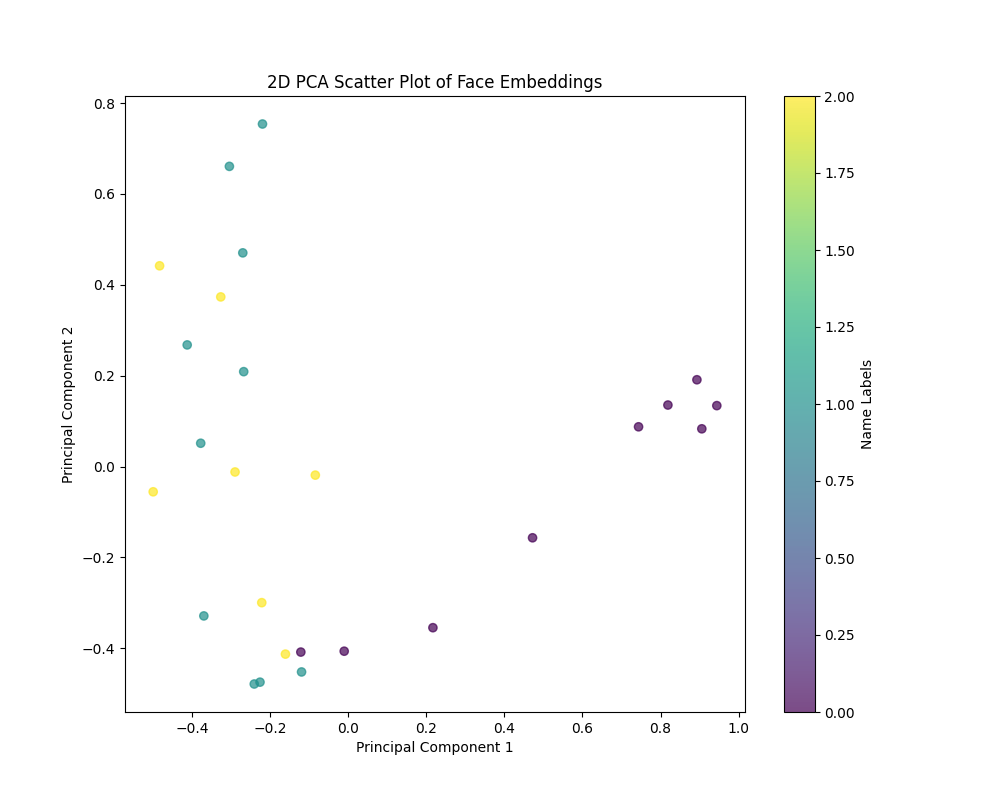
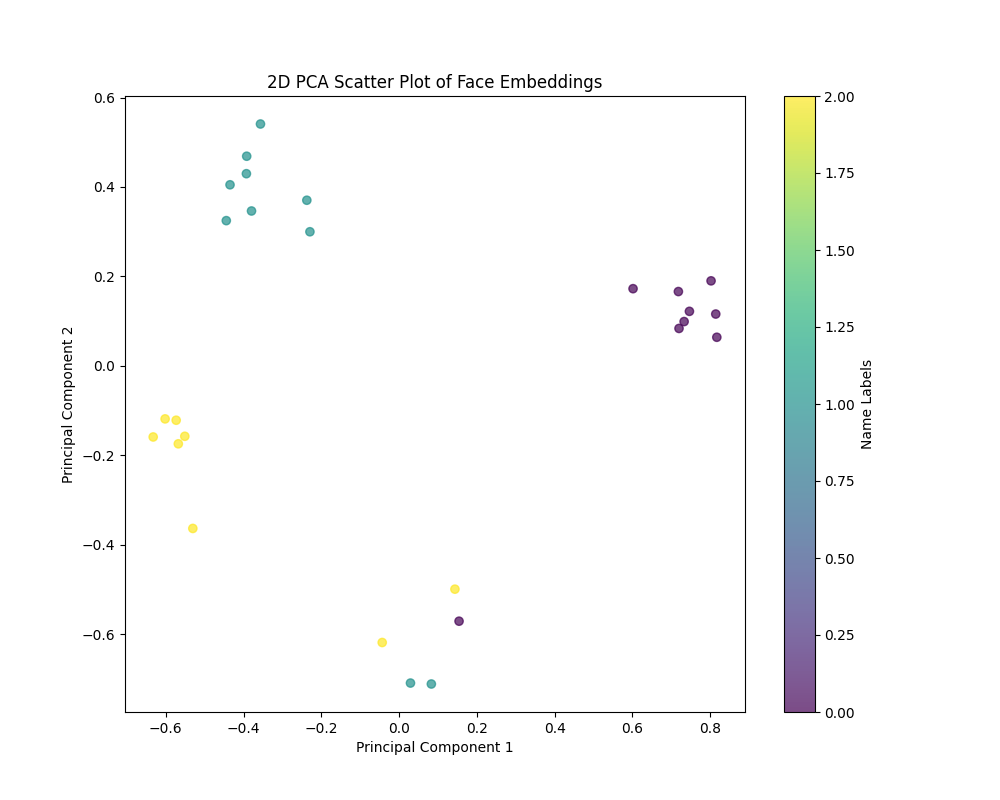
fixed bug

diff --git a/src/face_detector.py b/src/face_detector.py
@@ -56,13 +56,13 @@ class FaceDetector:
                 - blob (np.ndarray): The preprocessed image blob.
                 - scale (float): The scaling factor for resizing.
         """
-        height, width, channels = image.shape
-        size = max(height, width)
-        square = np.zeros((size, size, 3), np.uint8)
+        [height, width, channels] = image.shape
+        size = max((height, width))
+        square = np.zeros((size, size, 3), np.float32)
         square[0:height, 0:width] = image
         scale = size / self.imsize
         blob = cv2.dnn.blobFromImage(
-            image,
+            square,
             scalefactor=self.pixelscale,
             size=(self.imsize, self.imsize),
             swapRB=True
@@ -89,8 +89,8 @@ class FaceDetector:
         # Iterate through output to collect bounding boxes and confidence scores
         for i in range(rows):
             classes_scores = output[0][i][4:]
-            (_, max_score, _, _) = cv2.minMaxLoc(classes_scores)
-            if max_score >= 0.25:
+            (minScore, maxScore, minClassLoc, (x, maxClassIndex)) = cv2.minMaxLoc(classes_scores)
+            if maxScore >= 0.25:
                 # Convert to x_min, y_min, width, height
                 box = [
                     output[0][i][0] - (0.5 * output[0][i][2]),
@@ -99,7 +99,7 @@ class FaceDetector:
                     output[0][i][3],
                 ]
                 boxes.append(box)
-                scores.append(max_score)
+                scores.append(maxScore)
 
         # Apply NMS (Non-maximum suppression)
         nms = cv2.dnn.NMSBoxes(boxes, scores, 0.25, 0.45, 0.5)

diff --git a/src/face_encoder.py b/src/face_encoder.py
@@ -66,8 +66,8 @@ class FaceEncoder:
         Returns:
             np.ndarray: The preprocessed image blob.
         """
-        height, width, _ = image.shape
-        size = max(height, width)
+        [height, width, _] = image.shape
+        size = max((height, width))
         square = np.zeros((size, size, 3), np.float32)
         square[0:height, 0:width] = image
         square = cv2.resize(square, (self.imsize, self.imsize))
@@ -92,5 +92,4 @@ class FaceEncoder:
         x2 = x + w
         y2 = y + h
         cropped_image = image[y:y2, x:x2]
-        cv2.imwrite(f"faces/{x}{y}.jpg", cropped_image)
         return cropped_image

diff --git a/src/train.py b/src/train.py
@@ -56,7 +56,7 @@ def load_and_process_images(data_dir):
     return np.array(X), np.array(y)
 
 
-def train_knn_classifier(X, y, model_path="knn.joblib"):
+def train_knn_classifier(X, y, model_path="../weights/knn.joblib"):
     """
     Trains a K-Nearest Neighbors (KNN) classifier and saves the model.
 
